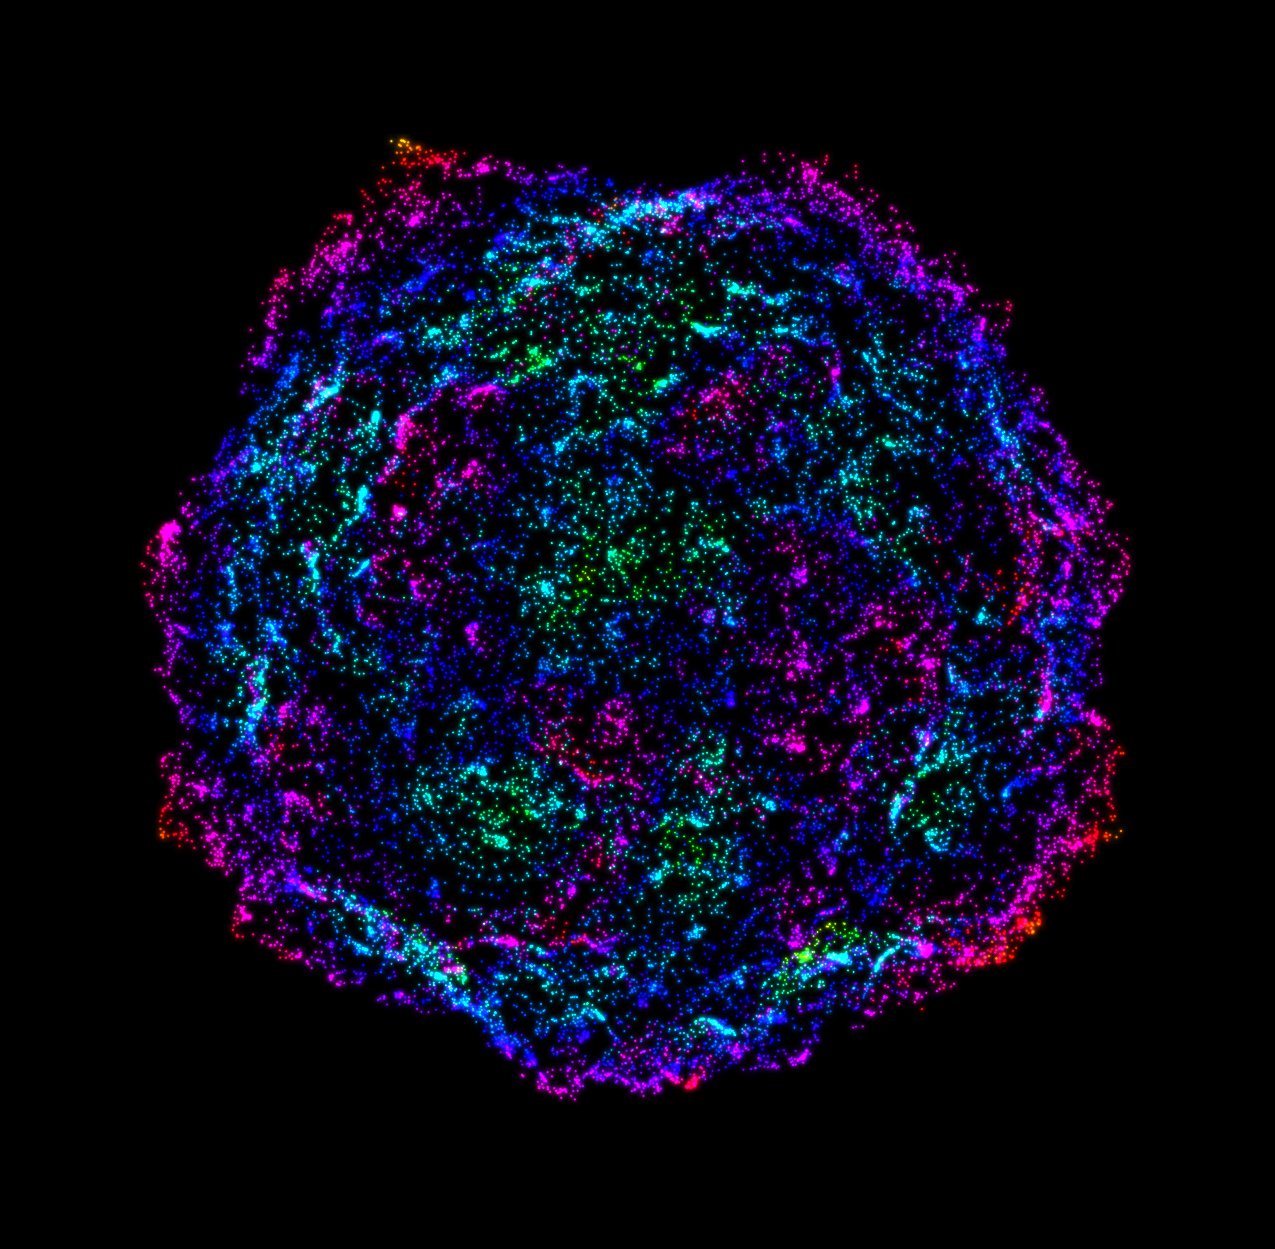
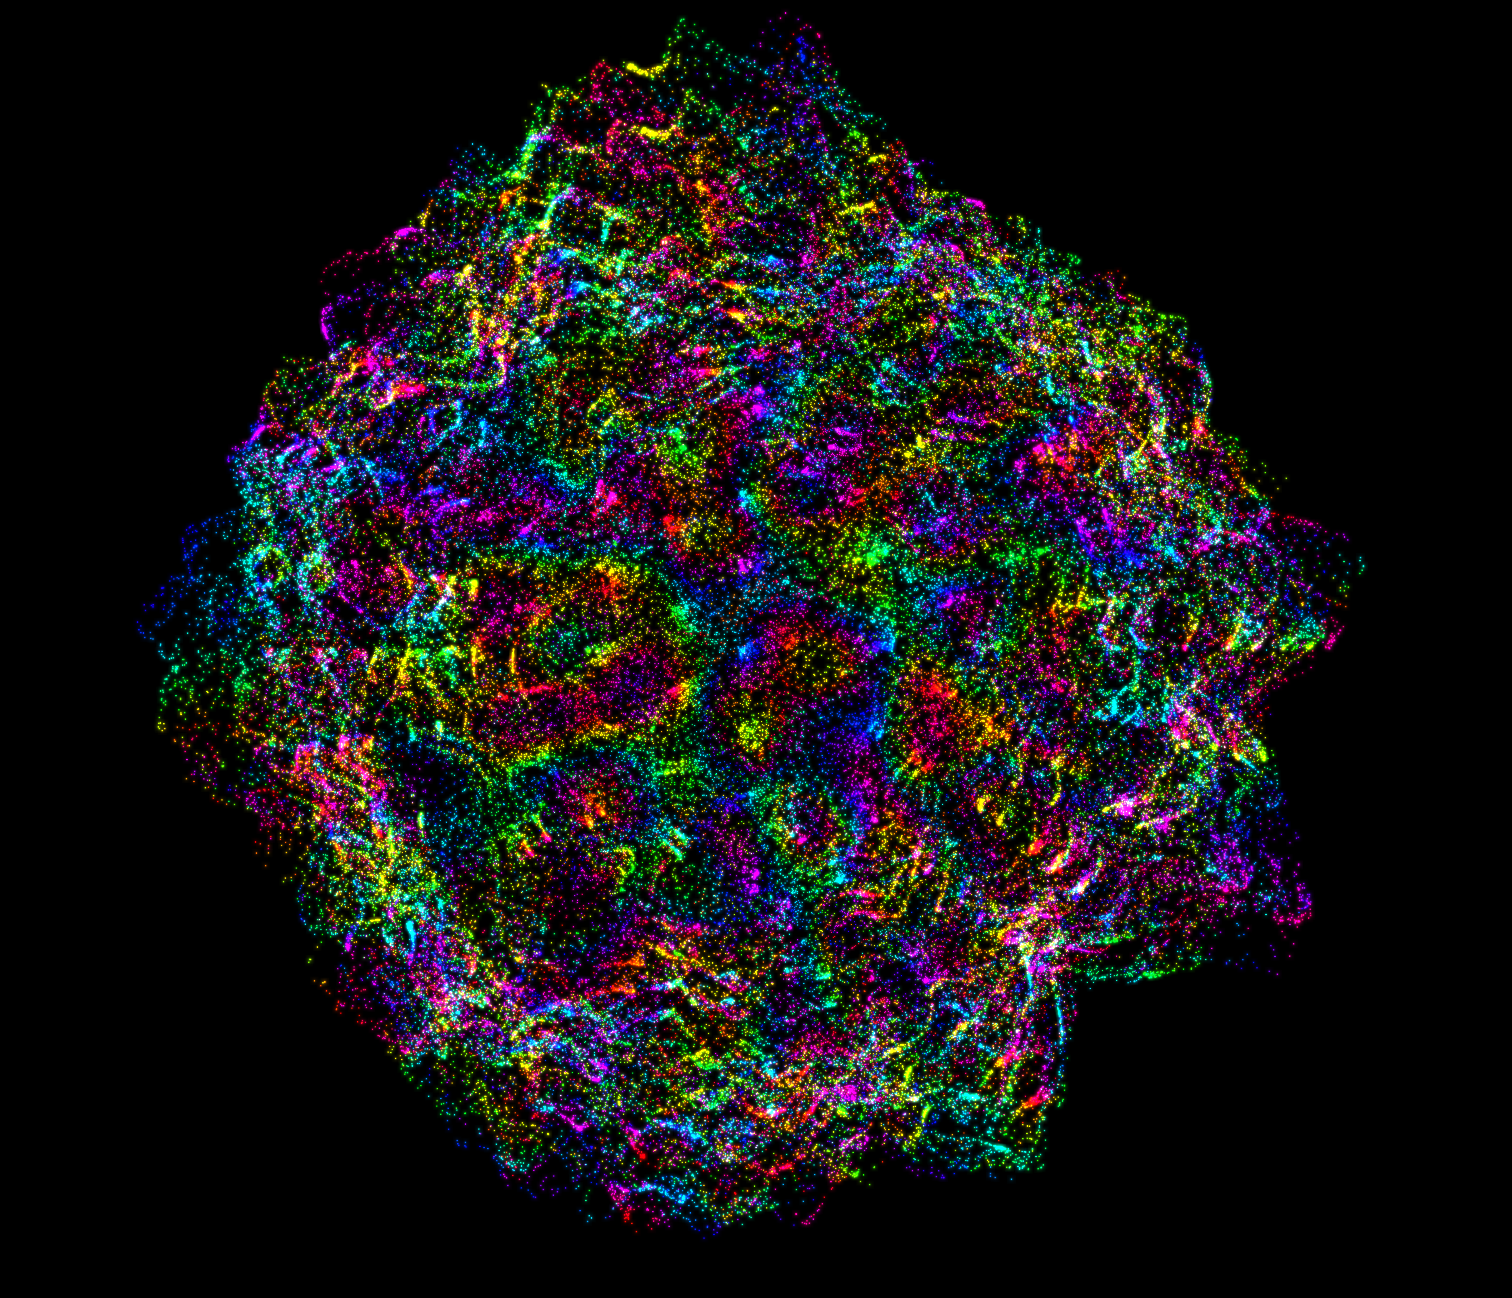
more stuff

diff --git a/src/sketches/028_particles_sphere_2/index.js b/src/sketches/028_particles_sphere_2/index.js
@@ -15,9 +15,18 @@ const sketch = async ({ canvas, width, height }) => {
 
   const scene = new BABYLON.Scene(engine);
   scene.clearColor = BABYLON.Color3.Black;
-  const camera = new BABYLON.ArcRotateCamera('Camera', -Math.PI / 2, Math.PI / 2, 2.75, BABYLON.Vector3.Zero(), scene);
-  camera.panningSensibility = 0;
-  camera.fov = 1;
+  const camera = new BABYLON.ArcRotateCamera('Camera', -Math.PI / 2, Math.PI / 2, 2.25, BABYLON.Vector3.Zero(), scene);
+  camera.attachControl(canvas, true);
+  camera.fov = 5.0;
+  camera.allowUpsideDown = true;
+  camera.norotationconstraint = true;
+  camera.lowerBetaLimit = null;
+  camera.upperBetaLimit = null;
+
+  camera.lowerRadiusLimit = 2.25;
+  camera.upperRadiusLimit = 2.25;
+
+
 
   BABYLON.Effect.ShadersStore.customVertexShader = customVertexShader;
   BABYLON.Effect.ShadersStore.customFragmentShader = customFragmentShader;
@@ -25,7 +34,7 @@ const sketch = async ({ canvas, width, height }) => {
   const sphere = new BABYLON.MeshBuilder.CreateIcoSphere('sphere', { radius: 1, subdivisions: 5 }, scene);
 
   const pcs = new BABYLON.PointsCloudSystem('pcs', 0, scene, { updatable: false });
-  pcs.addSurfacePoints(sphere, 20000, BABYLON.Color3.White);
+  pcs.addSurfacePoints(sphere, 100000, BABYLON.Color3.White);
 
   const pMaterial = new BABYLON.ShaderMaterial(
     'shader',
@@ -46,7 +55,7 @@ const sketch = async ({ canvas, width, height }) => {
   pMaterial.backFaceCulling = false;
 
   pMaterial.setFloat('iResolution', new BABYLON.Vector2(1, 1));
-  pMaterial.setFloat('pSize', 10);
+  pMaterial.setFloat('pSize', 5);
 
   pcs.buildMeshAsync().then(mesh => {
     pcs.mesh.material = pMaterial;

diff --git a/src/sketches/025_jokers_cage/index.js b/src/sketches/025_jokers_cage/index.js
@@ -1,0 +1,56 @@
+import createShader from 'canvas-sketch-util/shader';
+import fragmentShader from './shaders/frag.glsl';
+import vertexShader from './shaders/vert.glsl';
+
+const settings = {
+  context: 'webgl2',
+  animate: true,
+};
+
+const sketch = ({ gl, time, canvas }) => {
+  let mouseX = 0;
+  let mouseY = 0;
+  let mouseDown = 0;
+  const handleMoveMouse = e => {
+    if (mouseDown) {
+      const rect = canvas.getBoundingClientRect();
+      mouseX = e.clientX - rect.left;
+      mouseY = e.clientY - rect.top;
+    }
+  };
+  const handleMoveDown = e => {
+    mouseDown = 1;
+  };
+  const handleMoveUp = e => {
+    mouseDown = 0;
+  };
+  canvas.addEventListener('mousemove', handleMoveMouse);
+  canvas.addEventListener('mousedown', handleMoveDown);
+  canvas.addEventListener('mouseup', handleMoveUp);
+  canvas.addEventListener('mouseleave', handleMoveUp);
+  const shaderScene = createShader({
+    gl,
+    frag: fragmentShader,
+    vert: vertexShader,
+    uniforms: {
+      iTime: ({ time }) => time,
+      iMouse: params => {
+        return [mouseX, mouseY, mouseDown, mouseDown];
+      },
+      iResolution: ({ width, height }) => [width, height, 1],
+    },
+  });
+
+  const currentUnload = shaderScene.unload;
+  shaderScene.unload = (...args) => {
+    currentUnload(...args);
+    canvas.removeEventListener('mousemove', handleMoveMouse);
+    canvas.removeEventListener('mousedown', handleMoveDown);
+    canvas.removeEventListener('mouseup', handleMoveUp);
+    canvas.removeEventListener('mouseleave', handleMoveUp);
+  };
+
+  return shaderScene;
+};
+
+export default { sketch, settings };

diff --git a/src/sketches/026_rising_bubles/index.js b/src/sketches/026_rising_bubles/index.js
@@ -1,0 +1,22 @@
+import createShader from 'canvas-sketch-util/shader';
+import fragmentShader from './shaders/frag.glsl';
+import vertexShader from './shaders/vert.glsl';
+
+const settings = {
+  context: 'webgl2',
+  animate: true,
+};
+
+const sketch = ({ gl, time }) => {
+  return createShader({
+    gl,
+    frag: fragmentShader,
+    vert: vertexShader,
+    uniforms: {
+      iTime: ({ time }) => time,
+      iResolution: ({ width, height }) => [width, height, 1],
+    },
+  });
+};
+
+export default { sketch, settings };

diff --git a/src/components/layouts/MainLayout/Header/Header.js b/src/components/layouts/MainLayout/Header/Header.js
@@ -7,8 +7,8 @@ const Header = () => {
   return (
     <div className={styles.header}>
       <Link to="/" className={styles.headerTitle}>
-        <LogoIcon className={styles.logo} /> <span className={styles.title}>Graphic demos</span>{' '}
-        <span className={styles.name}>by Avin Lambrero</span>
+        <LogoIcon className={styles.logo} /> <span className={styles.title}>Creative experiments</span>{' '}
+        <span className={styles.name}>by Avin Grape</span>
       </Link>
 
       <div className={styles.contacts}>

diff --git a/public/index.html b/public/index.html
@@ -7,9 +7,9 @@
     <meta name="theme-color" content="#000000" />
     <meta
       name="description"
-      content="Graphic demos by Avin Lambrero"
+      content="Experiments"
     />
-    <title>Graphic demos by Avin Lambrero</title>
+    <title>Experiments</title>
   </head>
   <body>
     <noscript>You need to enable JavaScript to run this app.</noscript>
